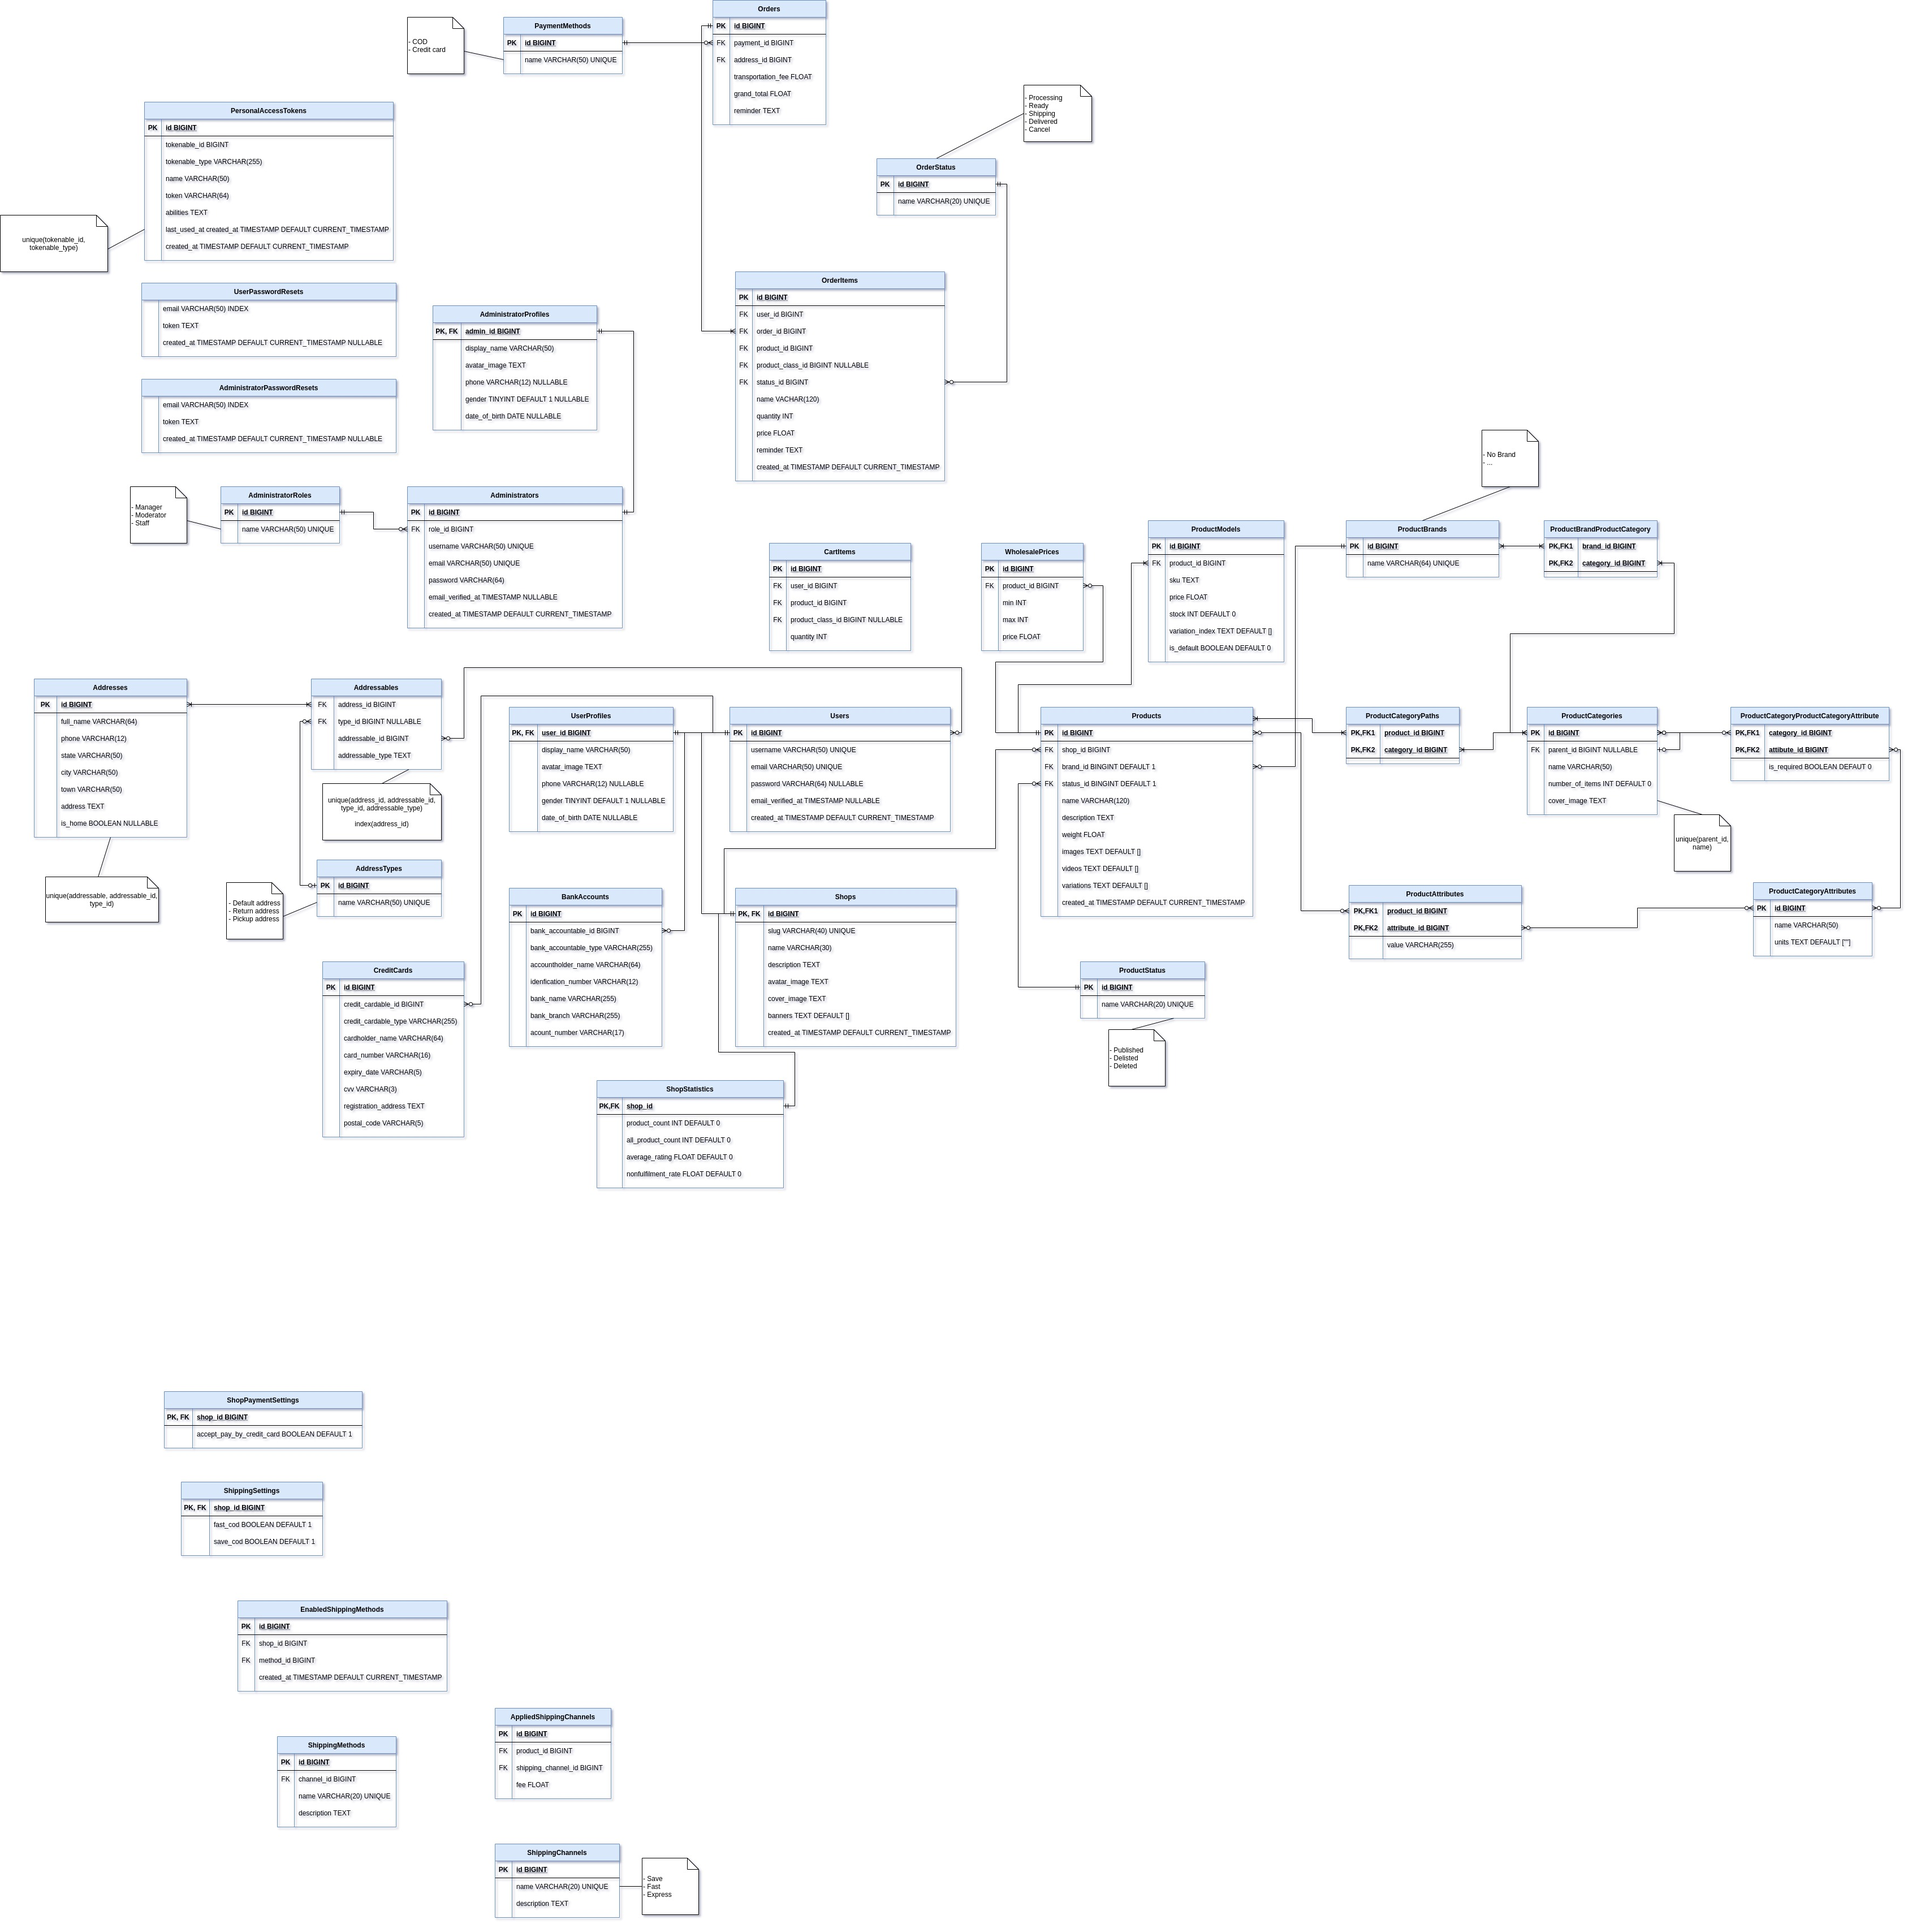
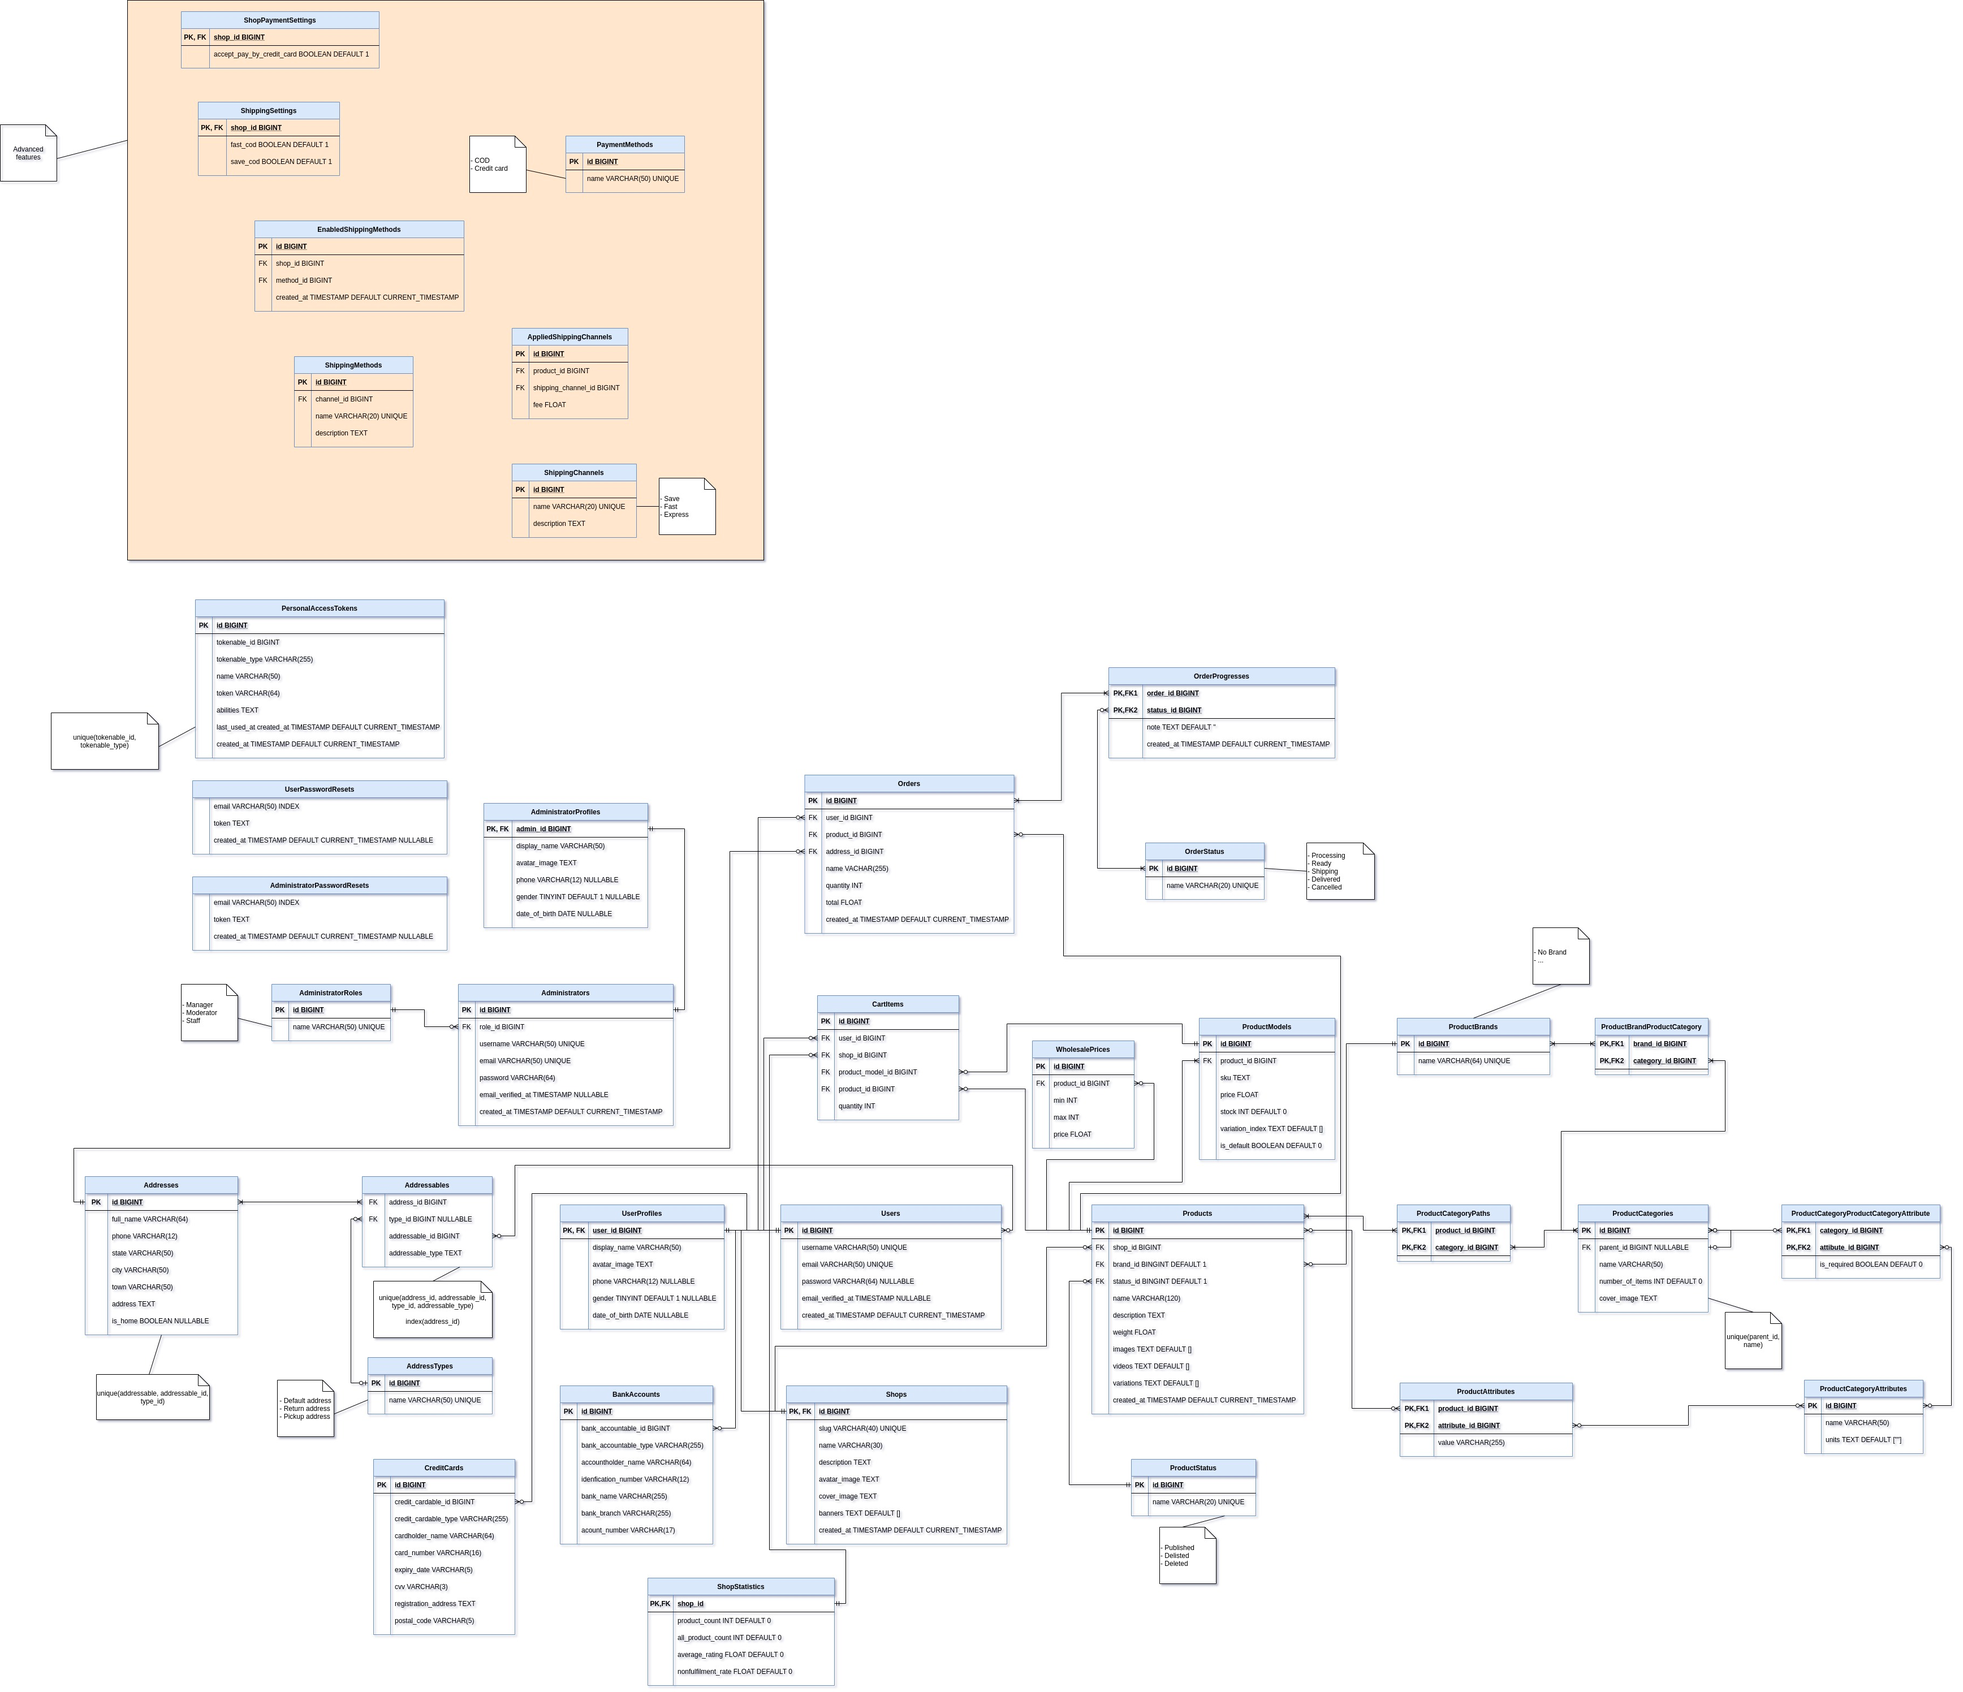
refactor: prepare code base

diff --git a/database/migrations/2022_05_14_140048_create_cart_items_table.php b/database/migrations/2022_05_14_140048_create_cart_items_table.php
@@ -1,0 +1,48 @@
+<?php
+
+use Illuminate\Database\Migrations\Migration;
+use Illuminate\Database\Schema\Blueprint;
+use Illuminate\Support\Facades\Schema;
+
+return new class extends Migration
+{
+    /**
+     * Run the migrations.
+     *
+     * @return void
+     */
+    public function up()
+    {
+        Schema::create('cart_items', function (Blueprint $table) {
+            $table->id();
+            $table->integer('quantity', false, true);
+
+            $table->foreignId('user_id')
+                ->constrained('users')
+                ->cascadeOnUpdate()
+                ->cascadeOnDelete();
+            $table->foreignId('shop_id')
+                ->constrained('shops')
+                ->cascadeOnUpdate()
+                ->cascadeOnDelete();
+            $table->foreignId('product_id')
+                ->constrained('products')
+                ->cascadeOnUpdate()
+                ->cascadeOnDelete();
+            $table->foreignId('product_model_id')
+                ->constrained('product_models')
+                ->cascadeOnUpdate()
+                ->cascadeOnDelete();
+        });
+    }
+
+    /**
+     * Reverse the migrations.
+     *
+     * @return void
+     */
+    public function down()
+    {
+        Schema::dropIfExists('cart_items');
+    }
+};

diff --git a/database/migrations/2022_05_14_140120_create_orders_table.php b/database/migrations/2022_05_14_140120_create_orders_table.php
@@ -1,0 +1,47 @@
+<?php
+
+use Illuminate\Database\Migrations\Migration;
+use Illuminate\Database\Schema\Blueprint;
+use Illuminate\Support\Facades\Schema;
+
+return new class extends Migration
+{
+    /**
+     * Run the migrations.
+     *
+     * @return void
+     */
+    public function up()
+    {
+        Schema::create('orders', function (Blueprint $table) {
+            $table->id();
+            $table->string('name', 255);
+            $table->integer('quantity', false, true);
+            $table->float('total', 8, 2, true);
+            $table->timestamp('created_at');
+
+            $table->foreignId('user_id')
+                ->constrained('users')
+                ->cascadeOnUpdate()
+                ->nullOnDelete();
+            $table->foreignId('product_id')
+                ->constrained('products')
+                ->cascadeOnUpdate()
+                ->nullOnDelete();
+            $table->foreignId('address_id')
+                ->constrained('addresses')
+                ->cascadeOnUpdate()
+                ->nullOnDelete();
+        });
+    }
+
+    /**
+     * Reverse the migrations.
+     *
+     * @return void
+     */
+    public function down()
+    {
+        Schema::dropIfExists('orders');
+    }
+};

diff --git a/database/migrations/2022_05_15_092038_create_order_progresses_table.php b/database/migrations/2022_05_15_092038_create_order_progresses_table.php
@@ -1,0 +1,41 @@
+<?php
+
+use Illuminate\Database\Migrations\Migration;
+use Illuminate\Database\Schema\Blueprint;
+use Illuminate\Support\Facades\Schema;
+
+return new class extends Migration
+{
+    /**
+     * Run the migrations.
+     *
+     * @return void
+     */
+    public function up()
+    {
+        Schema::create('order_progresses', function (Blueprint $table) {
+            $table->id();
+            $table->text('note')->default('');
+            $table->timestamp('created_at');
+
+            $table->foreignId('order_id')
+                ->constrained('orders')
+                ->cascadeOnUpdate()
+                ->cascadeOnDelete();
+            $table->foreignId('status_id')
+                ->constrained('order_status')
+                ->cascadeOnUpdate()
+                ->nullOnDelete();
+        });
+    }
+
+    /**
+     * Reverse the migrations.
+     *
+     * @return void
+     */
+    public function down()
+    {
+        Schema::dropIfExists('order_progresses');
+    }
+};

diff --git a/database/seeders/OrderStatusSeeder.php b/database/seeders/OrderStatusSeeder.php
@@ -1,0 +1,41 @@
+<?php
+
+namespace Database\Seeders;
+
+use App\Enums\OrderStatus;
+use Illuminate\Database\Seeder;
+use Illuminate\Support\Facades\DB;
+
+class OrderStatusSeeder extends Seeder
+{
+    /**
+     * Run the database seeds.
+     *
+     * @return void
+     */
+    public function run()
+    {
+        DB::table('order_status')->insert([
+            [
+                'id' => OrderStatus::Processing,
+                'name' => 'Processing',
+            ],
+            [
+                'id' => OrderStatus::Ready,
+                'name' => 'Ready',
+            ],
+            [
+                'id' => OrderStatus::Shipping,
+                'name' => 'Shipping',
+            ],
+            [
+                'id' => OrderStatus::Delivered,
+                'name' => 'Delivered',
+            ],
+            [
+                'id' => OrderStatus::Cancelled,
+                'name' => 'Cancelled',
+            ],
+        ]);
+    }
+}

diff --git a/database/migrations/2022_05_14_140107_create_order_status_table.php b/database/migrations/2022_05_14_140107_create_order_status_table.php
@@ -1,0 +1,31 @@
+<?php
+
+use Illuminate\Database\Migrations\Migration;
+use Illuminate\Database\Schema\Blueprint;
+use Illuminate\Support\Facades\Schema;
+
+return new class extends Migration
+{
+    /**
+     * Run the migrations.
+     *
+     * @return void
+     */
+    public function up()
+    {
+        Schema::create('order_status', function (Blueprint $table) {
+            $table->id();
+            $table->string('name', 20)->unique();
+        });
+    }
+
+    /**
+     * Reverse the migrations.
+     *
+     * @return void
+     */
+    public function down()
+    {
+        Schema::dropIfExists('order_status');
+    }
+};

diff --git a/app/Models/Order/Order.php b/app/Models/Order/Order.php
@@ -1,0 +1,22 @@
+<?php
+
+namespace App\Models\Order;
+
+use Illuminate\Database\Eloquent\Factories\HasFactory;
+use Illuminate\Database\Eloquent\Model;
+
+class Order extends Model
+{
+    use HasFactory;
+
+    protected $fillable = [
+        'user_id',
+        'product_id',
+        'address_id',
+        'name',
+        'quantity',
+        'total',
+    ];
+
+    public $timestamps = false;
+}

diff --git a/app/Models/Order/CartItem.php b/app/Models/Order/CartItem.php
@@ -1,0 +1,21 @@
+<?php
+
+namespace App\Models\Order;
+
+use Illuminate\Database\Eloquent\Factories\HasFactory;
+use Illuminate\Database\Eloquent\Model;
+
+class CartItem extends Model
+{
+    use HasFactory;
+
+    protected $fillable = [
+        'user_id',
+        'shop_id',
+        'product_id',
+        'product_model_id',
+        'quantity',
+    ];
+
+    public $timestamps = false;
+}

diff --git a/app/Models/Order/Status.php b/app/Models/Order/Status.php
@@ -1,0 +1,21 @@
+<?php
+
+namespace App\Models\Order;
+
+use Illuminate\Database\Eloquent\Factories\HasFactory;
+use Illuminate\Database\Eloquent\Model;
+
+class Progress extends Model
+{
+    use HasFactory;
+
+    protected $table = 'order_status';
+
+    protected $fillable = [
+        'order_id',
+        'status_id',
+        'note',
+    ];
+
+    public $timestamps = false;
+}

diff --git a/database/seeders/DatabaseSeeder.php b/database/seeders/DatabaseSeeder.php
@@ -31,6 +31,8 @@ class DatabaseSeeder extends Seeder
             ProductCategorySeeder::class,
             ProductCategoryAttributeSeeder::class,
             ProductCategoryProductCategoryAttributeSeeder::class,
+
+            OrderStatusSeeder::class,
         ]);
     }
 }

diff --git a/app/Enums/OrderStatus.php b/app/Enums/OrderStatus.php
@@ -1,0 +1,12 @@
+<?php
+
+namespace App\Enums;
+
+enum OrderStatus: int
+{
+    case Processing = 1;
+    case Ready = 2;
+    case Shipping = 3;
+    case Delivered = 4;
+    case Cancelled = 5;
+}

diff --git a/app/Http/Controllers/Api/Order/OrderController.php b/app/Http/Controllers/Api/Order/OrderController.php
@@ -1,0 +1,11 @@
+<?php
+
+namespace App\Http\Controllers\Api\Order;
+
+use App\Http\Controllers\Controller;
+use Illuminate\Http\Request;
+
+class OrderController extends Controller
+{
+    //
+}

diff --git a/app/Http/Controllers/Api/Order/CartController.php b/app/Http/Controllers/Api/Order/CartController.php
@@ -1,0 +1,11 @@
+<?php
+
+namespace App\Http\Controllers\Api\Order;
+
+use App\Http\Controllers\Controller;
+use Illuminate\Http\Request;
+
+class CartController extends Controller
+{
+    //
+}
